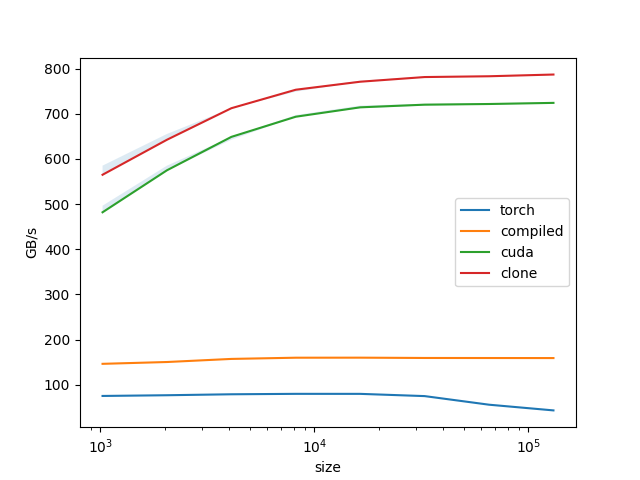
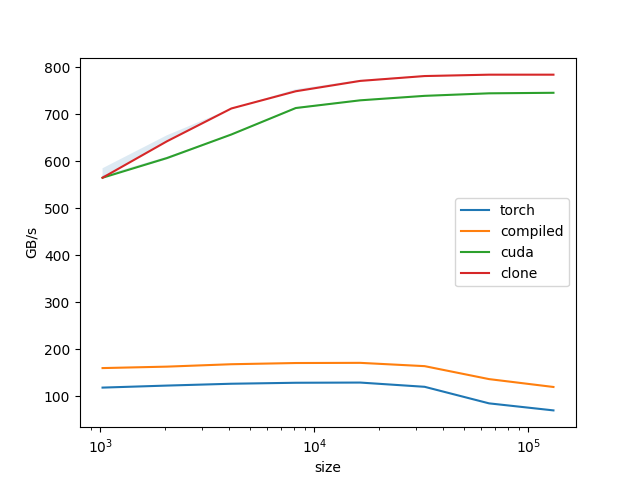
near same performance as clone

diff --git a/test/test.py b/test/test.py
@@ -62,7 +62,7 @@ def do_backward(layer, args, gradient, forward_only=True):
     ))
 
 
-def benchmark(size, provider, forward_only=True):
+def benchmark(size, provider, forward_only=False):
     input = torch.rand((batch, size, channels), device='cuda', requires_grad=True)
     kernel = torch.rand((4, channels), device='cuda', requires_grad=True)
     gradient = torch.rand_like(input.detach())
@@ -83,9 +83,11 @@ def benchmark(size, provider, forward_only=True):
     if provider == 'clone':
         ms, min_ms, max_ms = triton.testing.do_bench(lambda: input.clone(), quantiles=quantiles)
         gbps = lambda ms: 2 * input.numel() * input.element_size() * 1e-9 / (ms * 1e-3)
+        
     if provider != 'clone':
-        scale = 2 if forward_only else 5
+        scale = 2 if forward_only else 8
         gbps = lambda ms: scale * input.numel() * input.element_size() * 1e-9 / (ms * 1e-3)
+        
     return gbps(ms), gbps(max_ms), gbps(min_ms)
 
 
